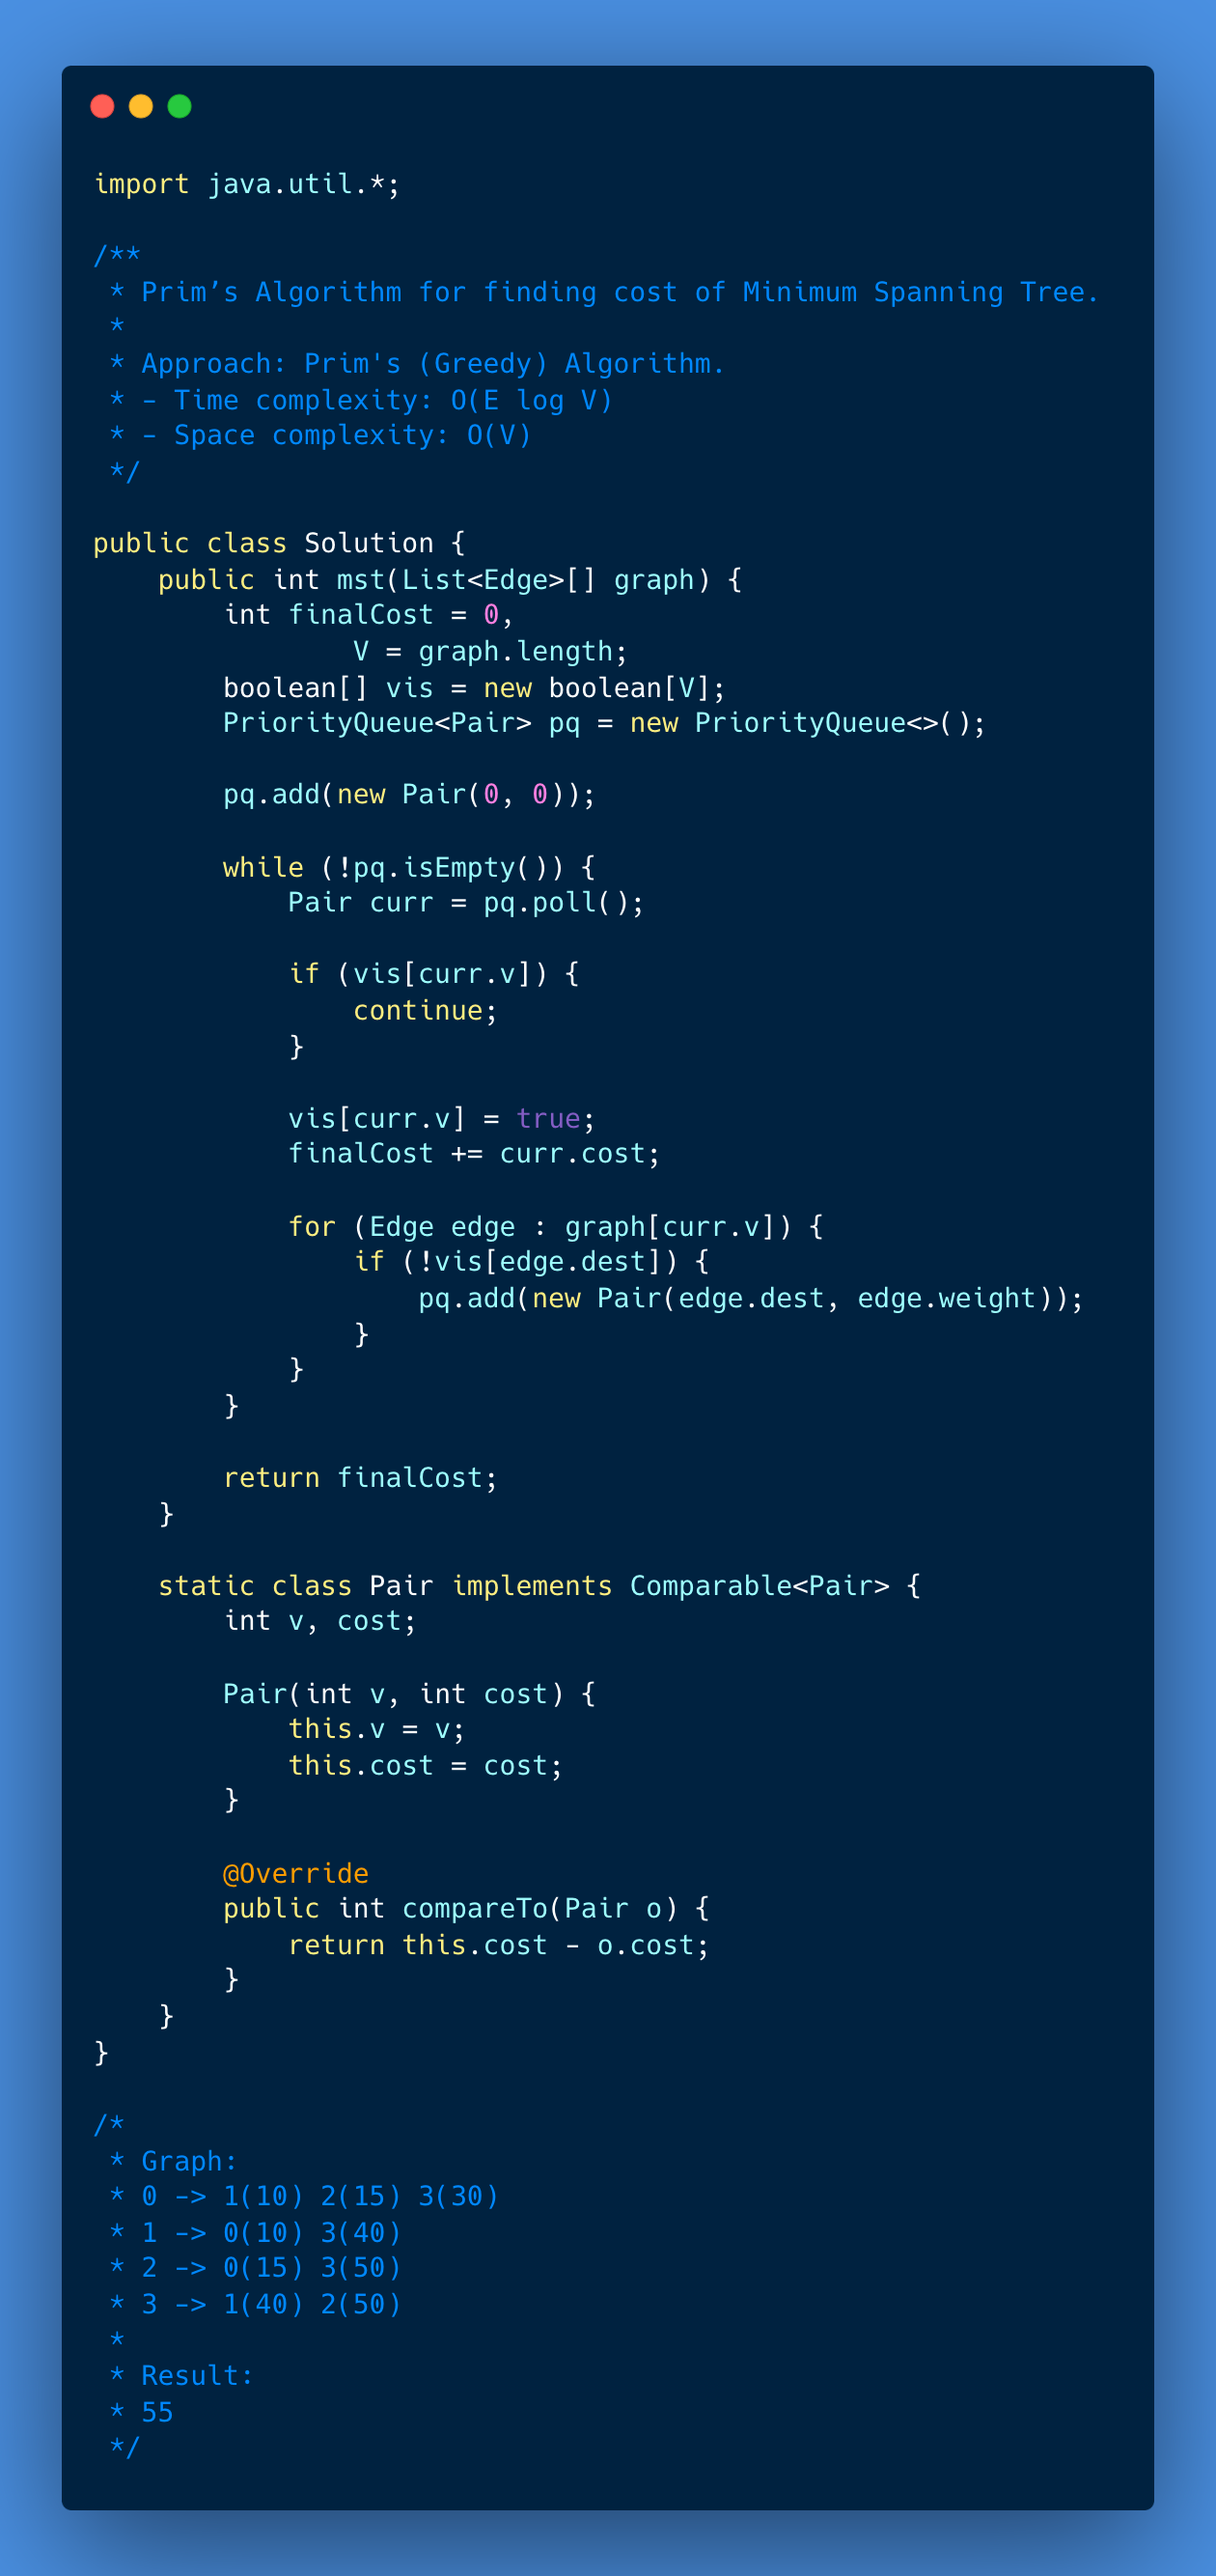
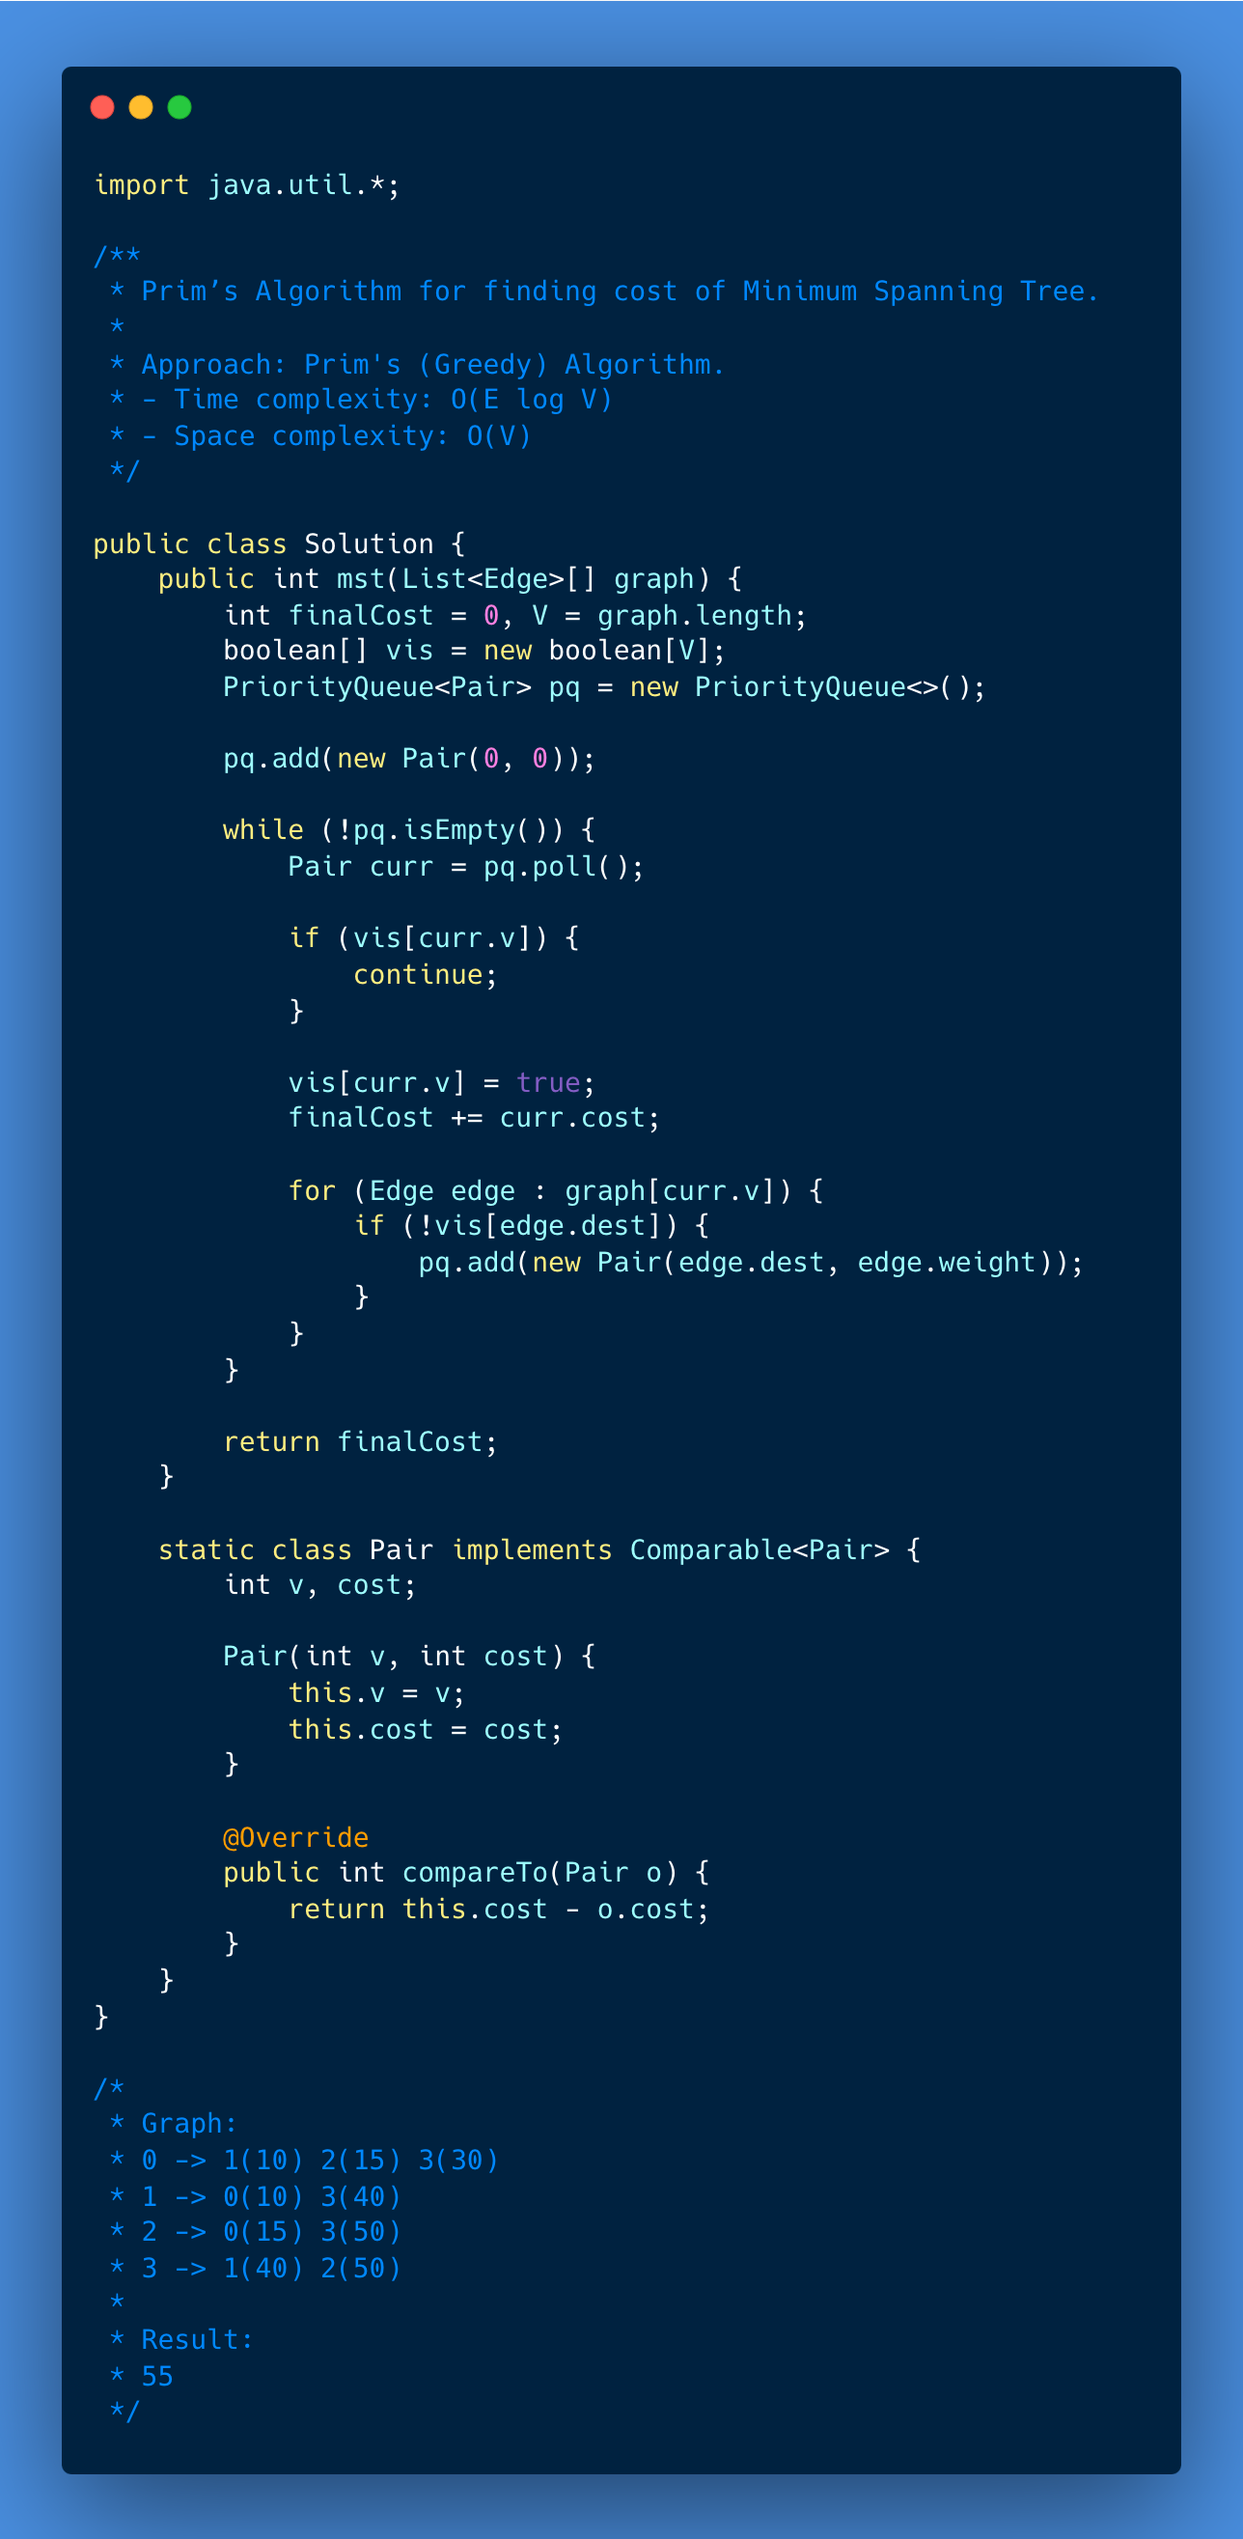
Update prims code

diff --git a/258-prims-minimum-spanning-tree/001-solution/Solution.java b/258-prims-minimum-spanning-tree/001-solution/Solution.java
@@ -10,8 +10,7 @@ import java.util.*;
 
 public class Solution {
     public int mst(List<Edge>[] graph) {
-        int finalCost = 0,
-                V = graph.length;
+        int finalCost = 0, V = graph.length;
         boolean[] vis = new boolean[V];
         PriorityQueue<Pair> pq = new PriorityQueue<>();
 
